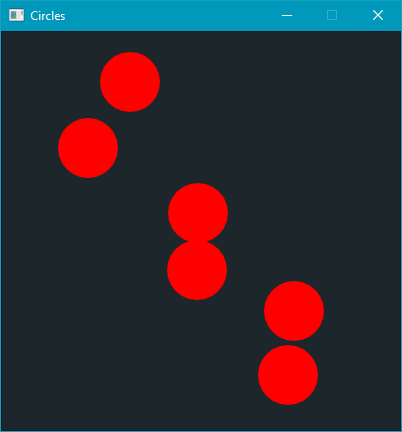
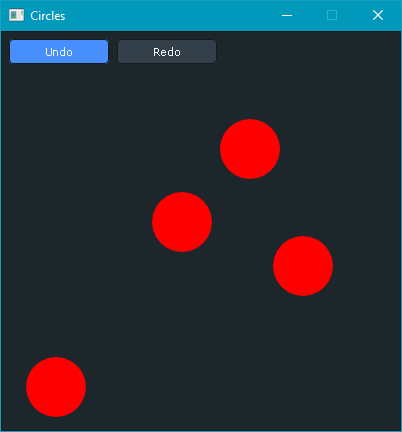
Fix redo undo.

diff --git a/cmd/circles/main.go b/cmd/circles/main.go
@@ -10,7 +10,21 @@ import (
 var (
 	pos        = image.Point{}
 	circleList = []image.Point{}
+	counter    = 0
+	index      = 0
 )
+
+func undo() {
+	if index > 0 {
+		index--
+	}
+}
+
+func redo() {
+	if index < counter {
+		index++
+	}
+}
 
 func loop() {
 	giu.SingleWindow("canvas").Layout(
@@ -19,14 +33,20 @@ func loop() {
 			pos = giu.GetMousePos()
 			c := color.RGBA{255, 0, 0, 255}
 
-			for _, position := range circleList {
+			for _, position := range circleList[:index] {
 				canvas.AddCircleFilled(position, 30, c)
 			}
 
-			if giu.IsMouseClicked(giu.MouseButtonLeft) {
+			if giu.IsMouseClicked(giu.MouseButtonLeft) && pos.Y > 70 {
 				circleList = append(circleList, pos)
+				counter++
+				index++
 			}
 		}),
+		giu.Row(
+			giu.Button("Undo").Size(100, 25).OnClick(undo),
+			giu.Button("Redo").Size(100, 25).OnClick(redo),
+		),
 	)
 }
 
